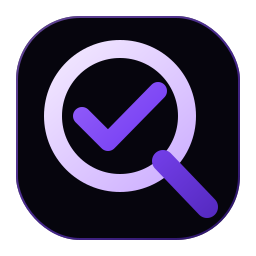
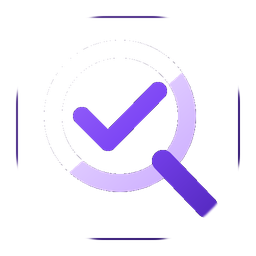
fix: transparent QuestPay cube mark and stronger hero 3D page blend
Remove dark/white plate from questpay mark PNG, render logo with alphaTest
only, and soften canvas vignette so the 3D hero dissolves into the page bg.

diff --git a/src/components/home/hero3d/VerseCube.tsx b/src/components/home/hero3d/VerseCube.tsx
@@ -199,20 +199,44 @@ export default function VerseCube({ reducedMotion = false }: { reducedMotion?: b
       </RoundedBox>
       <GlassPanels />
 
-      {/* Transparent Verse mark sits directly on the physical front face. */}
-      <mesh position={[0, 0, HALF.z + .012]} renderOrder={4}>
-        <planeGeometry args={[.92, .92]} />
-        <meshBasicMaterial map={mark} transparent alphaTest={.025} depthWrite={false} toneMapped={false} />
+      {/* Transparent QuestPay mark on the physical front face (no opaque plate). */}
+      <mesh position={[0, 0, HALF.z + 0.012]} renderOrder={4}>
+        <planeGeometry args={[1.05, 1.05]} />
+        <meshBasicMaterial
+          map={mark}
+          transparent
+          alphaTest={0.08}
+          depthWrite={false}
+          depthTest
+          toneMapped={false}
+        />
       </mesh>
-      <mesh position={[0, 0, HALF.z + .009]} scale={1.12} renderOrder={3}>
-        <planeGeometry args={[.92, .92]} />
-        <meshBasicMaterial map={mark} color="#b65dff" transparent opacity={.24} blending={THREE.AdditiveBlending} depthWrite={false} toneMapped={false} />
+      {/* Soft violet glow behind the mark only (additive, no plate). */}
+      <mesh position={[0, 0, HALF.z + 0.008]} scale={1.08} renderOrder={3}>
+        <planeGeometry args={[1.05, 1.05]} />
+        <meshBasicMaterial
+          map={mark}
+          color="#c084ff"
+          transparent
+          opacity={0.28}
+          blending={THREE.AdditiveBlending}
+          depthWrite={false}
+          toneMapped={false}
+        />
       </mesh>
 
-      {/* Reference has a quiet embossed Verse mark on the top face. */}
-      <mesh position={[0, HALF.y + .012, 0]} rotation={[-Math.PI / 2, 0, 0]} renderOrder={4}>
-        <planeGeometry args={[.86, .86]} />
-        <meshBasicMaterial map={mark} color="#7d34ad" transparent opacity={.20} depthWrite={false} toneMapped={false} />
+      {/* Quiet embossed mark on the top face. */}
+      <mesh position={[0, HALF.y + 0.012, 0]} rotation={[-Math.PI / 2, 0, 0]} renderOrder={4}>
+        <planeGeometry args={[0.95, 0.95]} />
+        <meshBasicMaterial
+          map={mark}
+          color="#a56dff"
+          transparent
+          opacity={0.22}
+          alphaTest={0.08}
+          depthWrite={false}
+          toneMapped={false}
+        />
       </mesh>
 
       <TopFacets />

diff --git a/src/app/globals.css b/src/app/globals.css
@@ -546,11 +546,11 @@ pre, code { max-width: 100%; overflow-wrap: anywhere; word-break: break-word; }
   pointer-events: none;
   isolation: isolate;
   background: transparent !important;
-  /* Soft circular falloff — avoid hard rectangular canvas edge */
-  -webkit-mask-image: radial-gradient(ellipse 72% 68% at 50% 50%, #000 46%, rgba(0,0,0,.94) 62%, rgba(0,0,0,.4) 78%, transparent 100%);
-  mask-image: radial-gradient(ellipse 72% 68% at 50% 50%, #000 46%, rgba(0,0,0,.94) 62%, rgba(0,0,0,.4) 78%, transparent 100%);
+  /* Strong soft vignette so canvas fully dissolves into page bg (no box border) */
+  -webkit-mask-image: radial-gradient(ellipse 78% 74% at 50% 50%, #000 52%, rgba(0,0,0,.88) 68%, rgba(0,0,0,.35) 84%, transparent 100%);
+  mask-image: radial-gradient(ellipse 78% 74% at 50% 50%, #000 52%, rgba(0,0,0,.88) 68%, rgba(0,0,0,.35) 84%, transparent 100%);
 }
-.qp-hero3d--home { width: min(100%, 700px); height: clamp(420px, 36vw, 540px); }
+.qp-hero3d--home { width: min(100%, 720px); height: clamp(430px, 38vw, 560px); }
 .qp-hero3d canvas,
 .qp-hero3d__canvas {
   display: block;
@@ -563,8 +563,8 @@ pre, code { max-width: 100%; overflow-wrap: anywhere; word-break: break-word; }
 }
 .qp-hero3d--fallback img {
   filter: saturate(.94) contrast(1.05) drop-shadow(0 18px 42px rgba(0,0,0,.45));
-  -webkit-mask-image: radial-gradient(ellipse 70% 66% at 50% 50%, #000 48%, rgba(0,0,0,.7) 72%, transparent 94%);
-  mask-image: radial-gradient(ellipse 70% 66% at 50% 50%, #000 48%, rgba(0,0,0,.7) 72%, transparent 94%);
+  -webkit-mask-image: radial-gradient(ellipse 76% 72% at 50% 50%, #000 54%, rgba(0,0,0,.7) 76%, transparent 100%);
+  mask-image: radial-gradient(ellipse 76% 72% at 50% 50%, #000 54%, rgba(0,0,0,.7) 76%, transparent 100%);
 }
 .qp-hero3d--signin { width: min(100%, 390px); height: 320px; }
 
@@ -574,8 +574,8 @@ pre, code { max-width: 100%; overflow-wrap: anywhere; word-break: break-word; }
     height: clamp(260px, 70vw, 340px);
     margin-inline: auto;
     overflow: hidden;
-    -webkit-mask-image: radial-gradient(ellipse 76% 74% at 50% 48%, #000 46%, rgba(0,0,0,.88) 64%, rgba(0,0,0,.28) 82%, transparent 97%);
-    mask-image: radial-gradient(ellipse 76% 74% at 50% 48%, #000 46%, rgba(0,0,0,.88) 64%, rgba(0,0,0,.28) 82%, transparent 97%);
+    -webkit-mask-image: radial-gradient(ellipse 82% 80% at 50% 48%, #000 56%, rgba(0,0,0,.8) 74%, rgba(0,0,0,.25) 90%, transparent 100%);
+    mask-image: radial-gradient(ellipse 82% 80% at 50% 48%, #000 56%, rgba(0,0,0,.8) 74%, rgba(0,0,0,.25) 90%, transparent 100%);
   }
   .qp-hero3d--signin { width: min(100%, 320px); height: 260px; }
 }
@@ -746,11 +746,11 @@ body {
   content: '';
   position: absolute;
   z-index: -1;
-  inset: -28% -24% -30%;
+  inset: -34% -30% -36%;
   pointer-events: none;
   background:
-    radial-gradient(ellipse 78% 72% at 50% 50%, rgba(120, 55, 240, .20), rgba(90, 35, 195, .10) 34%, rgba(60, 22, 150, .04) 56%, transparent 78%);
-  filter: blur(46px);
+    radial-gradient(ellipse 82% 76% at 50% 50%, rgba(120, 55, 240, .16), rgba(90, 35, 195, .08) 38%, rgba(60, 22, 150, .03) 60%, transparent 80%);
+  filter: blur(52px);
   opacity: 1;
 }
 
@@ -758,16 +758,16 @@ body {
 .qp-hero-scene-wrap::after {
   content: '';
   position: absolute;
-  inset: -10% -12% -10% -10%;
+  inset: -14% -16% -14% -14%;
   z-index: 1;
   pointer-events: none;
   background:
     radial-gradient(
-      ellipse 70% 66% at 50% 50%,
-      transparent 42%,
-      rgba(2, 2, 7, 0.12) 60%,
-      rgba(2, 2, 7, 0.42) 78%,
-      rgba(2, 2, 7, 0.88) 100%
+      ellipse 76% 72% at 50% 50%,
+      transparent 48%,
+      rgba(2, 2, 7, 0.10) 66%,
+      rgba(2, 2, 7, 0.38) 82%,
+      rgba(2, 2, 7, 0.92) 100%
     );
   opacity: 1;
 }